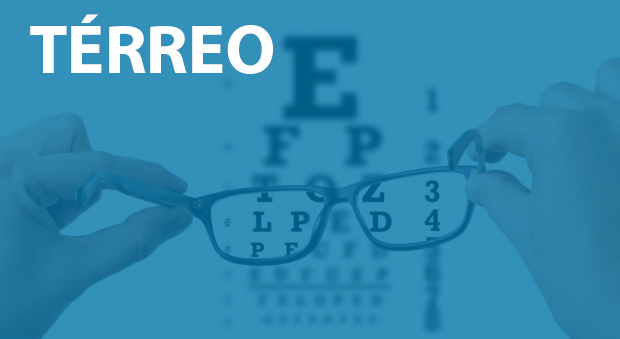
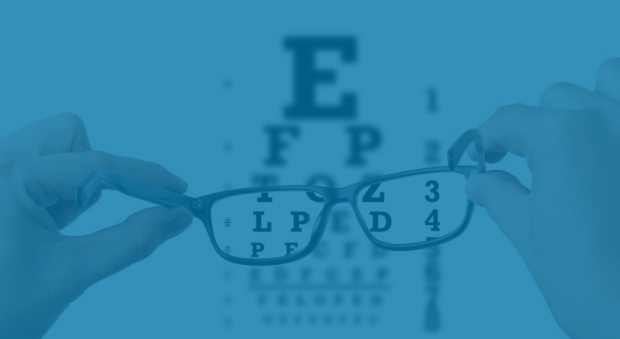
index finalizado

Changed region(s): [[0.0306, 0.0295, 0.4597, 0.236]]

diff --git a/FeiraProfissões/FeiraProfissões/Content/Site.css b/FeiraProfissões/FeiraProfissões/Content/Site.css
@@ -72,7 +72,11 @@ img {
     }
 }
 
-.estrelas input[type=radio]{
+.estrelas {
+    font-size: 130px;
+}
+
+.estrelas input[type=radio] {
     display: none;
 }
 
@@ -133,8 +137,12 @@ body {
     text-align:justify;
 }
 
+#parceiros{
+    text-align: center;
+}
+
 #p1{
-    width: 75px;
+    width: 60px;
     height: 65px;
 }
 
@@ -186,4 +194,11 @@ body {
 #p11 {
     width: 100px;
     height: 100px;
+}
+
+#tituloAndar {
+    font-size: 60px;
+    color: white;
+    position: absolute;
+    margin-left: 20px;
 }

diff --git a/FeiraProfissões/FeiraProfissões/Controllers/HomeController.cs b/FeiraProfissões/FeiraProfissões/Controllers/HomeController.cs
@@ -26,5 +26,31 @@ namespace FeiraProfissões.Controllers
 
             return View();
         }
+
+        public ActionResult Avaliacao()
+        {
+            return View();
+        }
+
+        [HttpPost]
+        public ActionResult Avaliacao(Models.tb_avaliacao avaliacao)
+        {
+            Business.FeiraBusiness business = new Business.FeiraBusiness();
+            business.Inserir(avaliacao);
+
+            return View();
+        }
+        public ActionResult SegundoAndar()
+        {
+            return View();
+        }
+        public ActionResult PrimeiroAndar()
+        {
+            return View();
+        }
+        public ActionResult Terreo()
+        {
+            return View();
+        }
     }
 }
